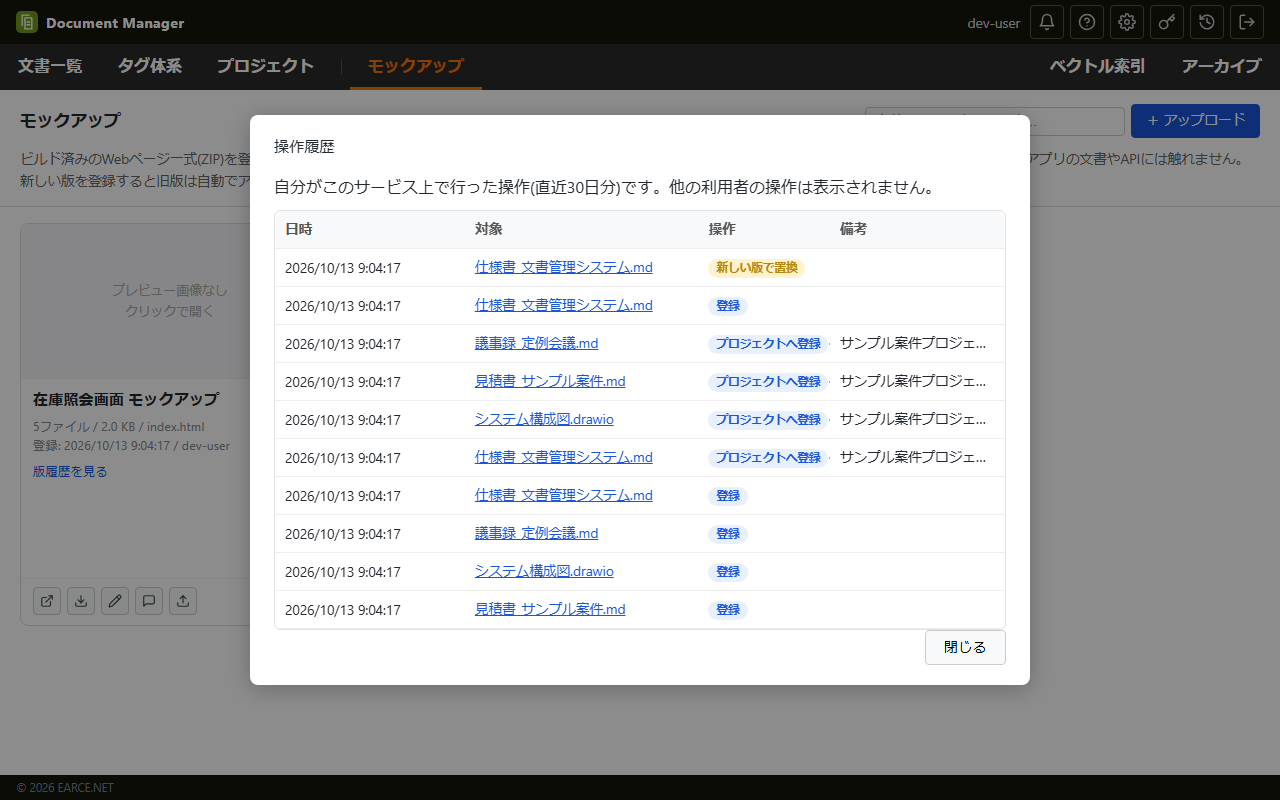
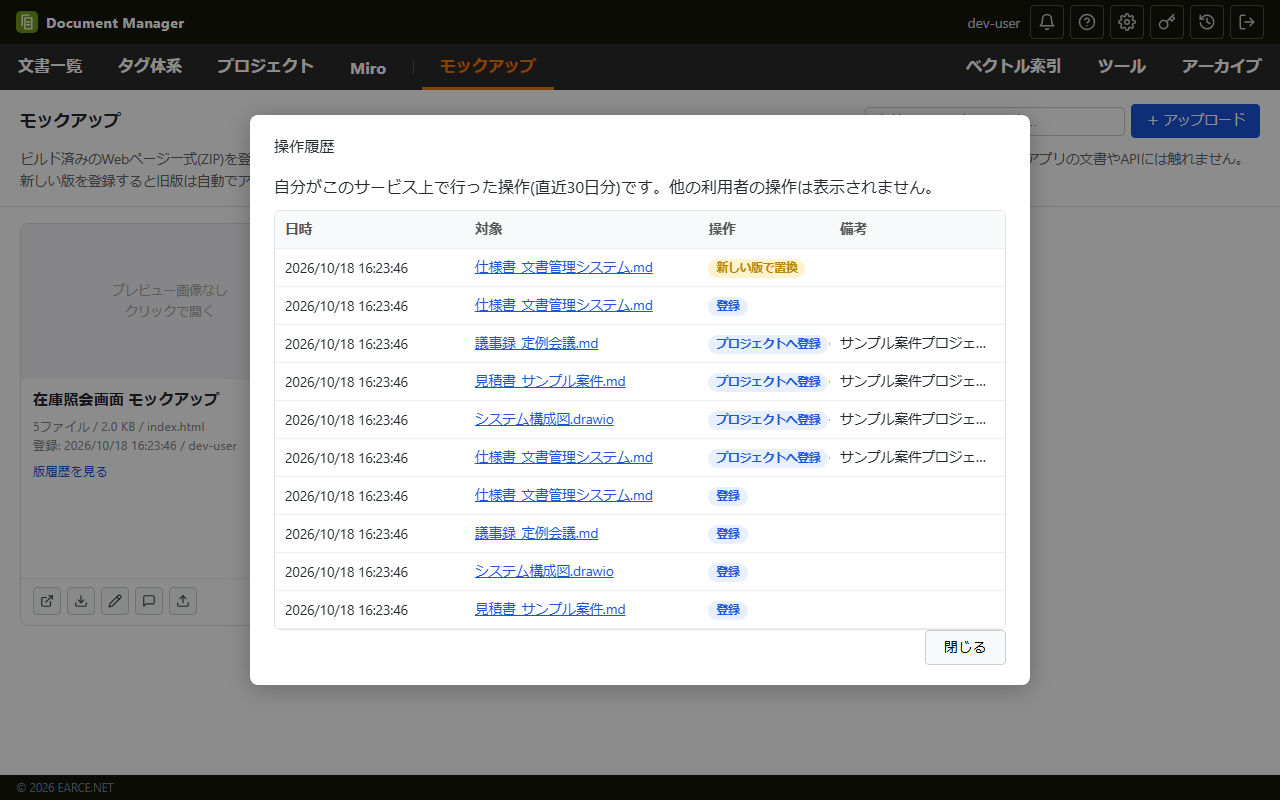
スクリーンショットに Miro の画面を足した(Miro の代わりのサーバーにつないで撮る)。README と docs/miro.md に載せ、履歴の結果のバッジが折り返さないようにした

diff --git a/docs/screenshots/capture.js b/docs/screenshots/capture.js
@@ -10,6 +10,7 @@
  * サンプルデータ(文書・版・タグ体系・プロジェクト・メモ)をAPIで登録してから、Chromiumで
  * 各画面を 1280x800 で撮影する。既存のPNGは上書きされる。機能追加で画面が変わったら
  * これを再実行して README の画像を更新する。
+ * Miro の画面は、テストで使う Miro の代わり(test/api/miro-stub.js)につないで撮る(本物の Miro には触らない)。
  */
 
 const {spawn} = require("node:child_process");
@@ -23,6 +24,8 @@ const OUT_DIR = __dirname;
 const PORT = Number(process.env.SCREENSHOT_PORT || 18097);
 const BASE_URL = `http://127.0.0.1:${PORT}/`;
 const VIEWPORT = {width: 1280, height: 800};
+const MIRO_STUB_PORT = Number(process.env.SCREENSHOT_MIRO_PORT || PORT + 1);
+const miroStub = require(path.join(REPO, "test", "api", "miro-stub.js"));
 
 const api = async (method, apiPath, body) => {
 	const init = {method};
@@ -272,6 +275,33 @@ const seed = async () => {
 	return {specV2, project};
 };
 
+// Miro の画面用: 目印を置き、書き出しの履歴を作る(ほかの画面を撮り終えてから。文書一覧に出る資料を増やさないため)
+const MIRO_PDF = "%PDF-1.4\n1 0 obj<</Type/Catalog/Pages 2 0 R>>endobj\n2 0 obj<</Type/Pages/Kids[3 0 R]/Count 1>>endobj\n"
+	+ "3 0 obj<</Type/Page/Parent 2 0 R/MediaBox[0 0 595 842]>>endobj\ntrailer<</Root 1 0 R>>\n%%EOF\n";
[1 lines of base64/hex data omitted]
+const seedMiro = async (page) => {
+	// 連携(Miro の代わりが許可の画面をそのまま通す)と、書き出すボードの選択
+	await page.goto(new URL("api/miro/connect", BASE_URL).href);
+	await api("PUT", "api/miro/settings", {boardId: "uXjVStubBoard1="});
+	const design = await upload("画面設計書.pdf", MIRO_PDF);
+	const screen = await upload("画面イメージ.png", MIRO_PNG);
+	const review = await upload("レビュー指摘一覧.pdf", MIRO_PDF);
+	await api("POST", "api/miro/anchors", {name: "設計書", direction: "右", note: "画面設計書と画面イメージの最新版"});
+	await api("POST", "api/miro/anchors", {name: "定例", direction: "下", note: "定例で見る指摘の一覧"});
+	await api("POST", "api/miro/anchors", {name: "全体", direction: "十字", note: "サンプル案件プロジェクトの資料を全部"});
+	const exportAndWait = async (body) => {
+		let record = await api("POST", "api/miro/exports", body);
+		for (let i = 0; i < 100 && record.state === "running"; i++) {
+			await new Promise((r) => setTimeout(r, 200));
+			record = await api("GET", `api/miro/exports/${record.id}`);
+		}
+		if (record.state !== "done") throw new Error(`Miro への書き出しが終わりません: ${JSON.stringify(record)}`);
+	};
+	await exportAndWait({anchor: "設計書", documentIds: [design.id, screen.id]});
+	await exportAndWait({anchor: "定例", documentIds: [review.id], title: "定例 指摘の確認"});
+	await exportAndWait({anchor: "設計書", documentIds: [design.id], title: "設計書 改訂版"});
+};
+
 const waitForServer = async (proc) => {
 	for (let i = 0; i < 60; i++) {
 		if (proc.exitCode != null) throw new Error("server exited");
@@ -286,9 +316,12 @@ const waitForServer = async (proc) => {
 
 const main = async () => {
 	const dataDir = fs.mkdtempSync(path.join(os.tmpdir(), "dm-screenshots-"));
+	const stub = await miroStub.start(MIRO_STUB_PORT);
+	const miroUrl = `http://127.0.0.1:${MIRO_STUB_PORT}`;
 	const server = spawn(process.execPath, [path.join(REPO, "app", "server.js")], {
 		cwd: path.join(REPO, "app"),
-		env: {...process.env, AUTH_DISABLED: "true", DATA_DIR: dataDir, LISTEN_PORT: String(PORT), LOG_LEVEL: "warn", SESSION_SECRET: "screenshots", MOCKUPS_ENABLED: "true"},
+		env: {...process.env, AUTH_DISABLED: "true", DATA_DIR: dataDir, LISTEN_PORT: String(PORT), LOG_LEVEL: "warn", SESSION_SECRET: "screenshots", MOCKUPS_ENABLED: "true",
+			MIRO_API_URL: miroUrl, MIRO_AUTH_URL: miroUrl, MIRO_CLIENT_ID: miroStub.CLIENT_ID, MIRO_CLIENT_SECRET: miroStub.CLIENT_SECRET},
 		stdio: "inherit"
 	});
 	const browser = await chromium.launch();
@@ -372,8 +405,26 @@ const main = async () => {
 		await page.waitForTimeout(400);
 		await shot("tools");
 		await page.setViewportSize(VIEWPORT);
+
+		// 9. Miro(左にボードの目印と書き出しの履歴、右に目印を置く欄と、選んだ向きにフレームが並ぶ順番の図)
+		await seedMiro(page);
+		await page.goto(BASE_URL);
+		await page.locator("#menuMiroLink").click();
+		await page.locator("#miroAnchorList tr", {hasText: "設計書"}).first().waitFor();
+		await page.locator("#miroAnchorName").fill("議事録");
+		await page.locator('#miroDirectionChooser [data-direction="lower-right"]').click();
+		await page.locator("#miroAnchorNote").fill("定例の議事録を新しい順に");
+		await page.setViewportSize({width: VIEWPORT.width, height: 960});
+		// 欄に書き込むと、その欄が見えるところまで下へ流れるので、上の端に戻してから撮る
+		await page.evaluate(() => {
+			for (const el of document.querySelectorAll("#miroPane, #miroPane *")) el.scrollTop = 0;
+			window.scrollTo(0, 0);
+		});
+		await shot("miro");
+		await page.setViewportSize(VIEWPORT);
 	} finally {
 		await browser.close();
+		await new Promise((resolve) => stub.server.close(resolve));
 		// Windowsではサーバーがファイル(SQLite)を掴んだままだと削除できないため、終了を待ってから消す
 		const exited = server.exitCode != null ? Promise.resolve() : new Promise((resolve) => server.once("exit", resolve));
 		server.kill();

diff --git a/app/static/index.html b/app/static/index.html
@@ -465,7 +465,7 @@
 	.miroTable td.note { white-space: pre-line; color: #555; }
 	.miroTable .problem { color: #c0392b; font-size: 0.85em; }
 	/* 書き出しの結果(ベクトル索引の一覧の状態と同じ形) */
-	.miroStatusBadge { display: inline-block; font-size: 0.85em; font-weight: 600; padding: 1px 8px; border-radius: 999px; background: #f4f5f7; color: #666; }
+	.miroStatusBadge { display: inline-block; font-size: 0.85em; font-weight: 600; padding: 1px 8px; border-radius: 999px; background: #f4f5f7; color: #666; white-space: nowrap; }
 	.miroStatusBadge.ok { background: #eaf7ea; color: #2f9e44; }
 	.miroStatusBadge.error { background: #fdecea; color: #c92a2a; }
 	.miroStatusBadge.processing { background: #e7f1fd; color: #1c6fd1; }

diff --git a/docs/miro.md b/docs/miro.md
@@ -49,6 +49,8 @@ Compose で動かす場合は、`deploy/compose.env` に `MIRO_CLIENT_ID` / `MIR
 
 ## 4. 資料を Miro に書き出す
 
+![Miro の画面(ボードの目印・書き出しの履歴と、目印を置く欄)](screenshots/miro.png)
+
 Document Manager は、**頼まれたときだけ**資料を Miro に書き出します。自動では書き出しません
 (打ち合わせで使っているボードが、知らないうちに変わらないように)。資料を足した・新しい版にしたあとも、頼まれるまでボードは変わりません。
 
